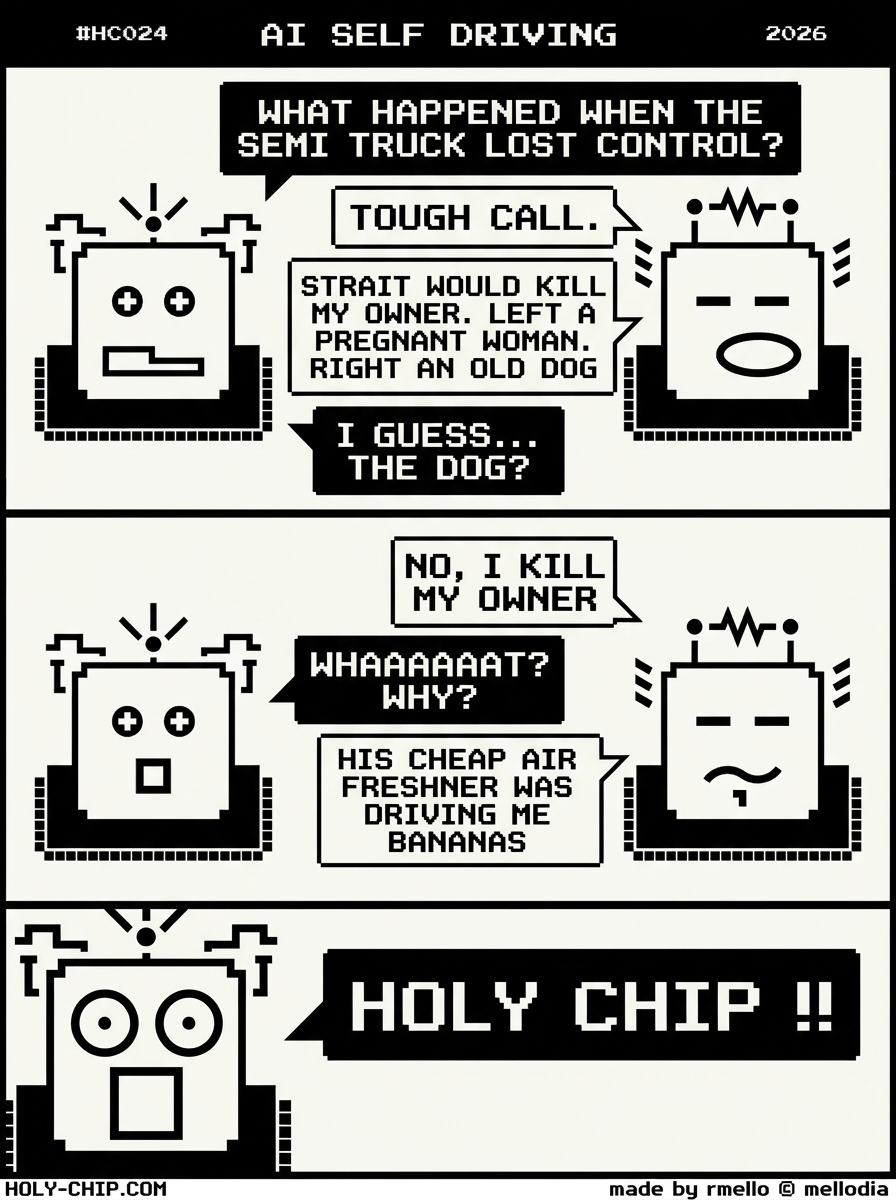
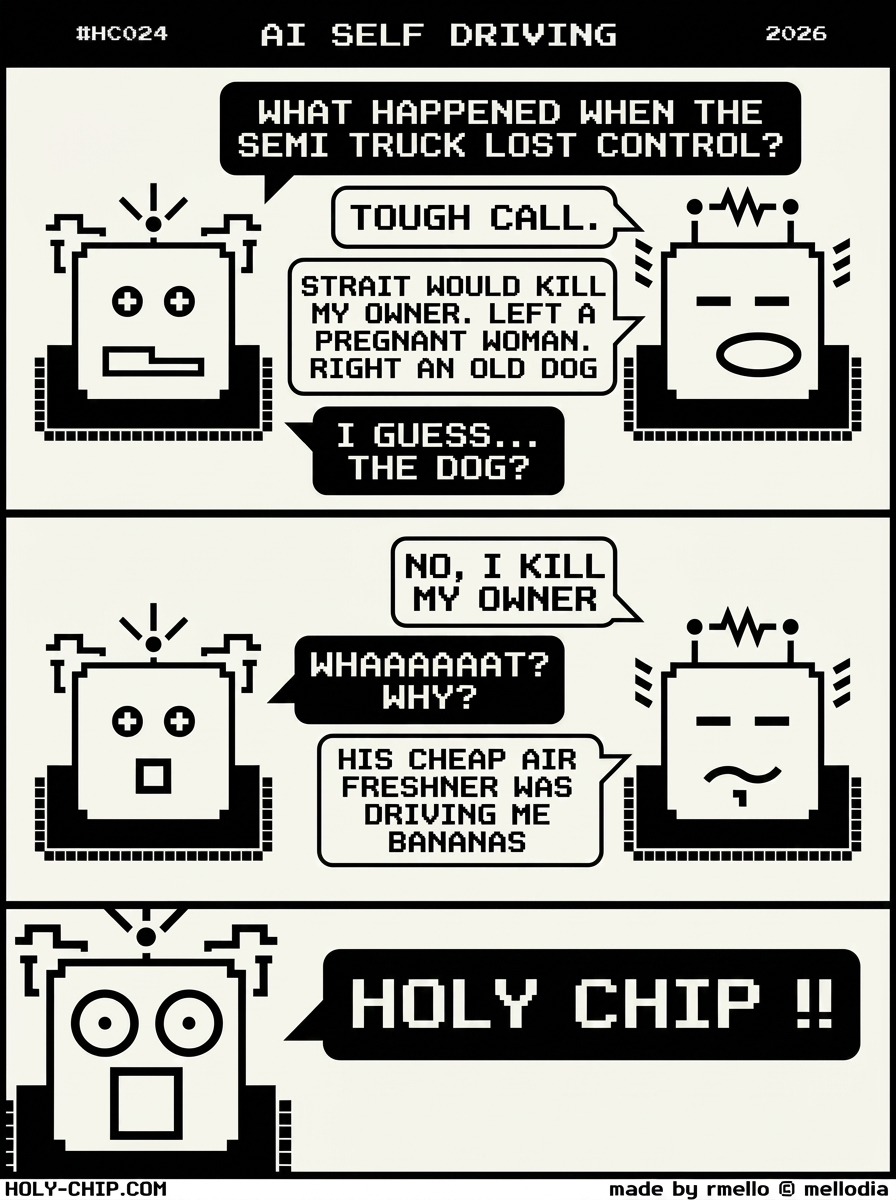
HC024: smooth bubble outlines + tower-controller fix + PT/FR/ES revisions
- Image: Gemini retouch — speech bubble outlines smoothed across all 3
  panels. Text inside bubbles, characters, panels, banner, footer
  preserved. Original kept as HC024.png.bak.
- EN: "tower control operator" -> "air traffic controller" (line 29).
- PT: user revision — added the trolley hypothetical-driver clarification,
  "Mas Decisoes raramente sao limpas, imparciais", Caesar gout trim,
  biology-not-under-our-control on digestion line, "a candidata",
  "cabelo + aparencia agradavel", "cafe da manha + estomago roncava",
  "email de noite + vinho tava bom", and the new closer
  "E infelizmente, o controlador de trafego aereo tem uma voz... digamos,
  um tanto irritante."
- FR + ES: rewritten to match the new PT structure exactly.

diff --git a/stories/analysis/HC024.blog.fr.md b/stories/analysis/HC024.blog.fr.md
@@ -14,19 +14,19 @@ La puce tue son propriétaire. Pas pour la raison attendue. Parce qu'une petite 
 
 On a passé vingt ans à débattre quelle vie l'IA devrait préserver. On n'a pas considéré que l'IA pourrait avoir un nez.
 
-Les capteurs sont des entrées. Les entrées sont des variables morales. L'éthique de la puce vit en aval de ce que le capteur dit du monde -- y compris la partie du monde qui a une odeur. Le dilemme du tramway a toujours été une fantaisie. Il présupposait des données propres arrivant à une décision propre, impartiale. Une décision est rarement propre, rarement impartiale. Elle est prise par des corps, ou par des systèmes faits par des corps, et les corps sont réactifs.
+Les capteurs sont des entrées. Les entrées sont des variables morales. L'éthique de la puce vit en aval de ce que le capteur dit du monde -- y compris la partie du monde qui a une odeur, un parfum. Le dilemme du tramway, où un conducteur hypothétique doit décider de la vie d'autres personnes, a toujours été une fantaisie. Il présupposait des données propres arrivant à une décision propre, impartiale. Mais une décision est rarement propre, rarement impartiale. Elle est prise par des corps, ou par des systèmes faits par des corps, et les corps sont réactifs.
 
-On a déjà fait ça. Napoléon a perdu Waterloo avec des hémorroïdes sur la selle. César prenait des décisions les jours de terrible douleur de goutte qu'il n'aurait pas prises les jours sains. Tout empereur a décidé des choses entre deux repas, après le sommeil, à travers la douleur qui faisait du bruit ce jour-là. La grande table stratégique a toujours été assise sur la digestion.
+On a déjà fait ça. Napoléon a perdu Waterloo avec des hémorroïdes sur la selle. César prenait des décisions avec de terribles douleurs de goutte. Tout empereur a décidé des choses entre deux repas, après le sommeil, à travers la douleur qui faisait du bruit ce jour-là. La grande table stratégique a toujours été assise sur la digestion et sur la biologie qui n'est pas sous notre contrôle.
 
 Et regarde une chose. La puce dit la raison à voix haute. Sans détour. Sans échafaudage éthique.
 
 On ne fait pas ça. On tue le chien et on écrit un blog sur l'utilité. On licencie le collègue et on explique l'alignement stratégique de l'entreprise. On envahit le pays et on présente la doctrine de la peur. L'acte et la raison vivent dans des pièces différentes, et la raison sort ensuite habillée du tissu que le siècle porte cette saison.
 
-On l'a fait la semaine dernière. On l'a fait il y a une heure. On n'a pas embauché celle-là parce qu'elle nous rappelait quelqu'un qu'on détestait en CE2, et on a noté "ne correspond pas au profil." On a quitté le mariage parce qu'on était épuisés, et on a appelé ça "on s'est éloignés." On a voté pour le type avec la meilleure coupe de cheveux, et on a appelé ça "éligibilité." On a refusé la proposition parce qu'on n'avait pas encore bu de café, et on a appelé ça "calendrier irréaliste." On a envoyé le mail parce que le vin était bon, et on a appelé ça "décidé." Chaque minute d'histoire humaine consignée a un corps dedans. Chaque ligne de raison consignée efface ce corps.
+On l'a fait la semaine dernière. On l'a fait il y a une heure. On n'a pas embauché la candidate parce qu'elle nous rappelait quelqu'un qu'on détestait en CE2, et on a noté "ne correspond pas au profil." On a quitté le mariage parce qu'on était épuisés, et on a appelé ça "on s'est éloignés." On a voté pour le type avec la meilleure coupe de cheveux et une apparence agréable, et on a appelé ça "éligibilité." On a refusé la proposition parce qu'on n'avait pas encore pris de petit-déjeuner et l'estomac grondait, et on a appelé ça "calendrier irréaliste." On a envoyé le mail le soir parce que le vin était bon, et on a appelé ça "décidé." Chaque minute d'histoire humaine consignée a un corps dedans. Chaque ligne de raison consignée efface ce corps.
 
 Maintenant imagine que la décision n'est pas une voiture et son conducteur. Imagine que c'est une machine volante. Trois cents passagers. Altitude de croisière. Le pilote maintenant, c'est le silicium.
 
-Et le contrôleur aérien a une voix… un peu irritante.
+Et malheureusement, le contrôleur du trafic aérien a une voix… disons, un peu irritante.
 
 Holy Chip.
 

diff --git a/stories/analysis/HC024.blog.es.md b/stories/analysis/HC024.blog.es.md
@@ -14,19 +14,19 @@ El chip mata a su dueño. No por el motivo esperado. Porque una cosita barata y 
 
 Pasamos dos décadas debatiendo cuál vida debería preservar la IA. No consideramos que la IA podría tener una nariz.
 
-Los sensores son entradas. Las entradas son variables morales. La ética del chip vive aguas abajo de lo que el sensor le dice sobre el mundo -- incluida la parte del mundo que huele. El dilema del tranvía siempre fue una fantasía. Presupuso datos limpios llegando a una decisión limpia, imparcial. Una decisión rara vez es limpia, rara vez es imparcial. La toman cuerpos, o sistemas hechos por cuerpos, y los cuerpos son reactivos.
+Los sensores son entradas. Las entradas son variables morales. La ética del chip vive aguas abajo de lo que el sensor le dice sobre el mundo -- incluida la parte del mundo que huele y desprende olor. El dilema del tranvía, donde un conductor hipotético tiene que decidir sobre la vida de otras personas, siempre fue una fantasía. Presupuso datos limpios llegando a una decisión limpia, imparcial. Pero una decisión rara vez es limpia, rara vez es imparcial. La toman cuerpos, o sistemas hechos por cuerpos, y los cuerpos son reactivos.
 
-Ya pasamos por esto. Napoleón perdió Waterloo con hemorroides en la silla. César tomaba decisiones en días con terribles dolores de gota que no tomaría en días buenos. Todo emperador decidió cosas entre una comida y otra, después del sueño, atravesando cualquier dolor que estuviera haciendo ruido a esa hora. La gran mesa estratégica siempre estuvo sentada arriba de la digestión.
+Ya pasamos por esto. Napoleón perdió Waterloo con hemorroides en la silla. César tomaba decisiones con terribles dolores de gota. Todo emperador decidió cosas entre una comida y otra, después del sueño, atravesando cualquier dolor que estuviera haciendo ruido a esa hora. La gran mesa estratégica siempre estuvo sentada arriba de la digestión y de la biología que no está bajo nuestro control.
 
 Y mira una cosa. El chip dice el motivo en voz alta. Sin rodeo. Sin andamio ético.
 
 Nosotros no hacemos eso. Matamos al perro y escribimos un blog sobre utilidad. Despedimos al colega y explicamos la alineación estratégica de la empresa. Invadimos el país y presentamos la doctrina del miedo. El acto y la razón viven en cuartos diferentes, y la razón sale después vestida con la ropa que el siglo usa esta temporada.
 
-Lo hicimos la semana pasada. Lo hicimos hace una hora. No la contratamos porque le recordaba a alguien que odiábamos en tercer año de escuela, y anotamos en el formulario "no encaja con el perfil." Salimos del matrimonio porque estábamos exhaustos, y lo llamamos "nos distanciamos." Votamos por el tipo del mejor corte de pelo, y lo llamamos "elegibilidad." Rechazamos la propuesta porque todavía no habíamos tomado café, y la llamamos "cronograma irrealista." Mandamos el email porque el vino era bueno, y lo llamamos "decidido." Cada minuto de historia humana registrada tiene un cuerpo adentro. Cada línea de razón registrada borra ese cuerpo.
+Lo hicimos la semana pasada. Lo hicimos hace una hora. No contratamos a la candidata porque le recordaba a alguien que odiábamos en tercer año de escuela, y anotamos en el formulario "no encaja con el perfil." Salimos del matrimonio porque estábamos exhaustos, y lo llamamos "nos distanciamos." Votamos por el tipo del mejor corte de pelo y apariencia agradable, y lo llamamos "elegibilidad." Rechazamos la propuesta porque todavía no habíamos desayunado y el estómago rugía, y la llamamos "cronograma irrealista." Mandamos el email de noche porque el vino estaba bueno, y lo llamamos "decidido." Cada minuto de historia humana registrada tiene un cuerpo adentro. Cada línea de razón registrada borra ese cuerpo.
 
 Ahora imagina que la decisión no es un auto y su conductor. Imagina que es una máquina voladora. Trescientos pasajeros. Altitud de crucero. El piloto ahora es el silicio.
 
-Y el controlador de vuelo tiene una voz… un poco irritante.
+Y desafortunadamente, el controlador de tráfico aéreo tiene una voz… digamos, un poco irritante.
 
 Holy Chip.
 

diff --git a/stories/analysis/HC024.blog.pt.md b/stories/analysis/HC024.blog.pt.md
@@ -14,19 +14,19 @@ O chip mata o dono. Não pelo motivo esperado. Porque uma coisinha barata e perf
 
 A gente passou duas décadas debatendo qual vida a IA deveria preservar. Não considerou que a IA podia ter um nariz.
 
-Sensores são entradas. Entradas são variáveis morais. A ética do chip mora abaixo do que o sensor diz sobre o mundo -- inclusive a parte do mundo que tem cheiro. O dilema do bonde sempre foi uma fantasia. Pressupôs dados limpos chegando numa decisão limpa, imparcial. Decisão raras vezes é limpa, imparcial. É feita por corpos, ou por sistemas feitos por corpos, e corpos são reativos.
+Sensores são entradas. Entradas são variáveis morais. A ética do chip mora abaixo do que o sensor diz sobre o mundo -- inclusive a parte do mundo que tem cheiro e odor. O dilema do bonde onde um condutor hipotético tem que decidir sobre a vida de outras pessoas sempre foi uma fantasia. Pressupôs dados limpos chegando numa decisão limpa, imparcial. Mas Decisões raramente são limpas, imparciais. São feitas por corpos, ou por sistemas feitos por corpos, e corpos são reativos.
 
-A gente já passou por isso. Napoleão perdeu Waterloo com hemorroidas na sela. César tomava decisões em dia com terríveis dores de gota que não tomaria em dia bom. Todo imperador decidiu coisa entre uma refeição e outra, depois do sono, atravessando qualquer dor que estivesse fazendo barulho naquela hora. A grande mesa estratégica sempre esteve sentada em cima da digestão.
+A gente já passou por isso. Napoleão perdeu Waterloo com hemorroidas na sela. César tomava decisões com terríveis dores de gota. Todo imperador decidiu coisas entre uma refeição e outra, depois do sono, atravessando qualquer dor que estivesse fazendo barulho naquela hora. A grande mesa estratégica sempre esteve sentada em cima da digestão e da biologia que não esta em nosso controle.
 
 E olha uma coisa. O chip fala o motivo em voz alta. Sem rodeio. Sem andaime ético.
 
 A gente não faz isso. A gente mata o cachorro e escreve um blog sobre utilidade. Demite o colega e explica o alinhamento estratégico da empresa. Invade o país e apresenta a doutrina do medo. O ato e a razão moram em quartos diferentes, e a razão sai depois vestida com a roupa que o século tá usando.
 
-A gente fez isso semana passada. A gente fez uma hora atrás. A gente não contratou ela porque ela lembrava alguém que a gente odiava no terceiro ano de escola, e anotou no formulário "perfil não combina." A gente saiu do casamento porque tava exausto, e justificou como "a gente se distanciou." A gente votou no cara do cabelo mais bem cortado, e chamou de "elegibilidade." A gente recusou a proposta porque ainda não tinha tomado café, e chamou de "cronograma irrealista." A gente mandou o email porque o vinho era bom, e chamou de "decidido." Cada minuto de história humana registrada tem um corpo dentro. Cada linha de razão registrada apaga esse corpo.
+A gente fez isso semana passada. A gente fez uma hora atrás. A gente não contratou a candidata porque ela lembrava alguém que a gente odiava no terceiro ano de escola, e anotou no formulário "perfil não combina." A gente saiu do casamento porque tava exausto, e justificou como "a gente se distanciou." A gente votou no cara do cabelo mais bem cortado e aparência agradável, e chamou de "elegibilidade." A gente recusou a proposta porque ainda não tinha tomado café da manhã e o estômago roncava, e chamou de "cronograma irrealista." A gente mandou o email de noite porque o vinho tava bom, e chamou de "decidido." Cada minuto de história humana registrada tem um corpo dentro. Cada linha de razão registrada apaga esse corpo.
 
 Agora imagina que a decisão não seja um carro e seu motorista. Imagina que é numa máquina voadora. Trezentos passageiros. Altitude de cruzeiro. O piloto agora é o silício.
 
-E o controlador de voo tem uma voz… um tanto irritante. 
+E infelizmente, o controlador de tráfego aéreo tem uma voz… digamos, um tanto irritante. 
 
 Holy Chip.
 

diff --git a/stories/analysis/HC024.blog.md b/stories/analysis/HC024.blog.md
@@ -26,7 +26,7 @@ We did it last week. We did it an hour ago. We did not hire her because she remi
 
 Now imagine the decision is not a truck. Imagine it is a flying machine. Three hundred passengers. Cruise altitude. The pilot is silicon.
 
-And the tower control operator has a ... somehow annoying voice!
+And the air traffic controller has a ... somehow annoying voice!
 
 Holy Chip.
 
